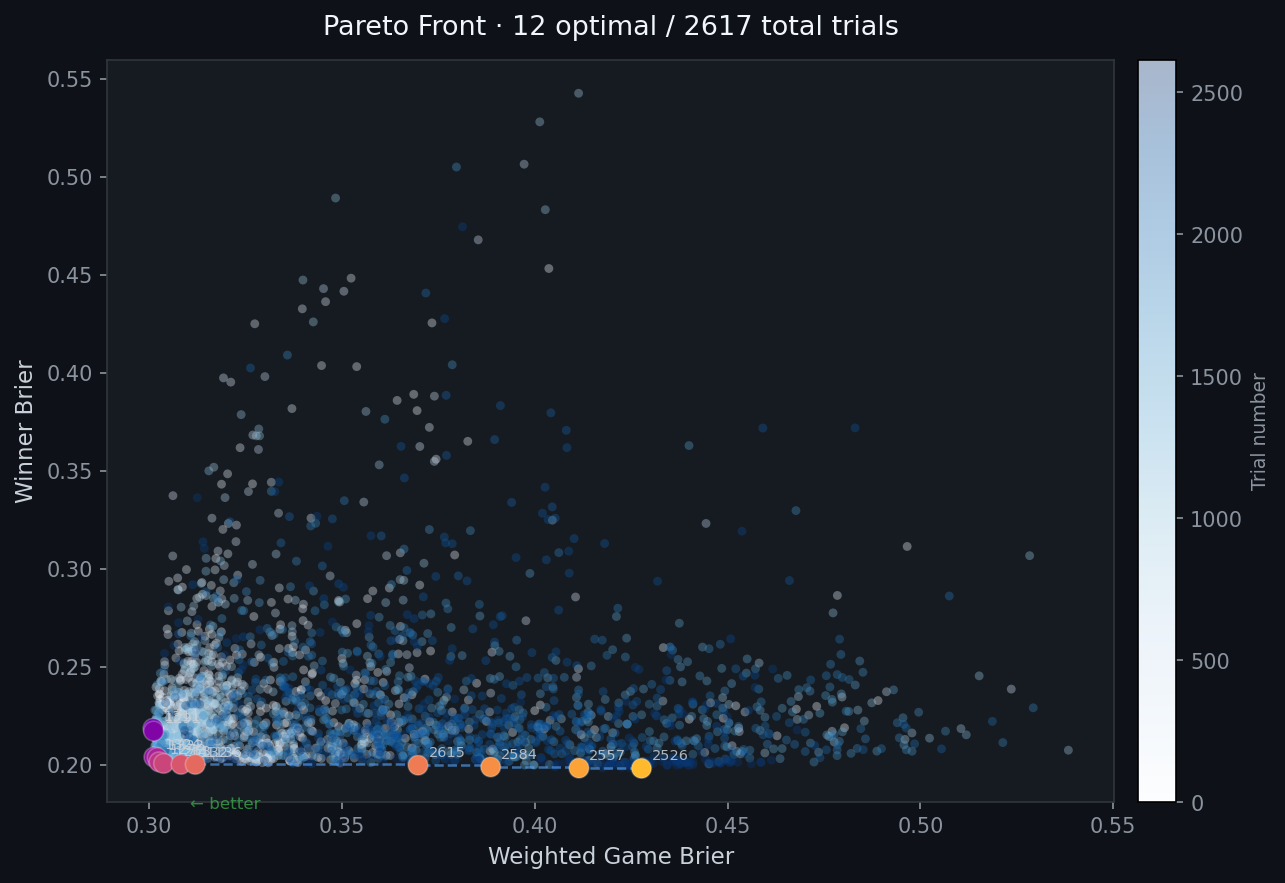
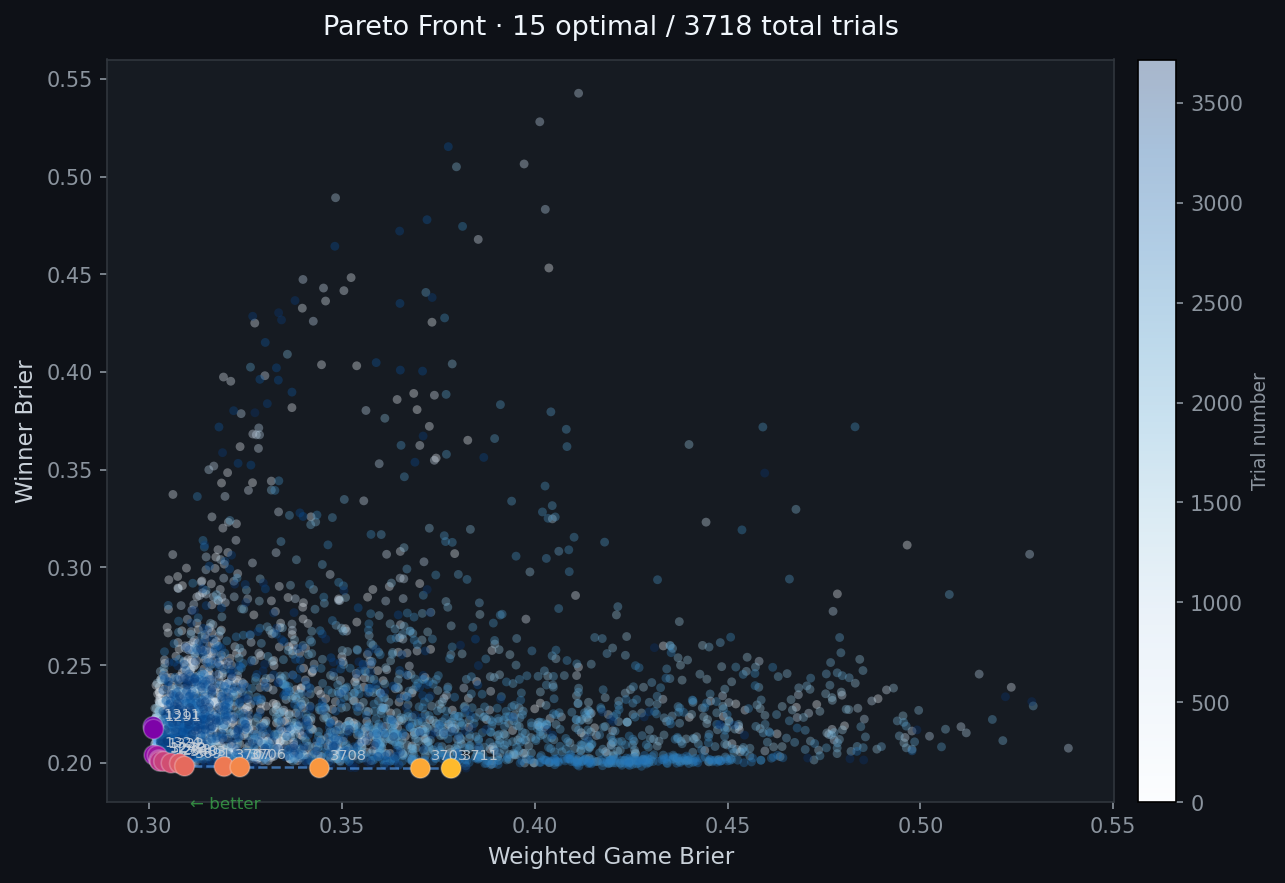
update

diff --git a/README.md b/README.md
@@ -52,19 +52,19 @@ python3 scripts/make_gif.py results/candidates2026/ -d 3000 --last-duration 1000
 
 ![Round 8](results/candidates2026/r8.png)
 
-*Round 7 results: Wei Yi beat Esipenko, Sindarov–Giri drew, Bluebaum–Nakamura drew, Pragg–Caruana drew*
+*Round 7 results: Wei Yi beat Esipenko, Sindarov–Anish drew, Bluebaum–Hikaru drew, Pragg–Fabi drew*
 
-- ✓ **Wei Yi beat Esipenko** — model had Wei Yi at 43.6%, correct
-- ✓ **Bluebaum–Nakamura drew** — model near-even (37.5%/36.2%), reasonable
-- ✗ **Sindarov–Giri drew** — model had Sindarov at 43.3%; with a commanding lead Sindarov has no reason to press
-- ✗ **Pragg–Caruana drew** — model had Caruana at 47.8%; Caruana unable to convert yet again in a must-win situation
-- Sindarov's win prob **increases** to 75.4% despite only drawing in R7 — his 1.5-point lead means draws are now strategically optimal
+- ✓ **Wei Yi beat Esipenko** — model had Wei Yi at 47.5%, correct
+- ✗ **Sindarov–Anish drew** — model had Sindarov at 58.8%; with a 2.5-point lead, little incentive to press
+- ✗ **Bluebaum–Hikaru drew** — model had Bluebaum at 43.0%
+- ✗ **Pragg–Fabi drew** — model had Pragg at 42.9%; Fabi has now drawn 4 straight rounds since his R3 win
+- Sindarov drops slightly to **88.5%** (from 90.3%) despite drawing — his cushion remains too large
 
 *Round 8 predictions:*
-- Esipenko–Sindarov: 24.6% / 26.4% / **49.0%** — Sindarov heavy favourite as Black
-- Wei Yi–Bluebaum: 37.2% / 26.6% / 36.2% — essentially a coin flip
-- Giri–Pragg: **43.8%** / 25.9% / 30.3% — Giri favoured
-- Nakamura–Caruana: 33.8% / 26.5% / **39.7%** — Caruana slight favourite
+- Esipenko–Sindarov: 4.2% / 15.2% / **80.6%** — Sindarov near-certain favourite; 6 wins out of 7 makes Esipenko an extreme underdog
+- Wei Yi–Bluebaum: 29.8% / 30.5% / **39.8%** — Bluebaum slight edge
+- Anish–Pragg: **38.2%** / 31.6% / 30.2% — Anish slight edge
+- Hikaru–Fabi: 33.7% / 30.6% / **35.7%** — Fabi slight edge
 
 </details>
 
@@ -73,19 +73,19 @@ python3 scripts/make_gif.py results/candidates2026/ -d 3000 --last-duration 1000
 
 ![Round 7](results/candidates2026/r7.png)
 
-*Round 6 results: Caruana–Esipenko drew, Nakamura–Pragg drew, Giri–Bluebaum drew, Sindarov beat Wei Yi*
+*Round 6 results: Fabi–Esipenko drew, Hikaru–Pragg drew, Anish–Bluebaum drew, Sindarov beat Wei Yi*
 
-- ✓ **Sindarov beat Wei Yi** — model predicted (39.7%), correct
-- ✓ **Giri–Bluebaum drew** — model near-even (37.1%/36.5%), fine
-- ✗ **Caruana–Esipenko drew** — model's biggest miss: Caruana was a **53% favourite** for a win against a 2698-rated opponent; Caruana's repeated failure to convert against lower-rated players is the tournament's central story
-- ✗ **Nakamura–Pragg drew** — model had Nakamura at 45.3%
-- Win probs: Sindarov **72.6%**, Caruana 20.9%
+- ✓ **Sindarov beat Wei Yi** — model had Sindarov at 62.4%, correct
+- ✗ **Fabi–Esipenko drew** — model's biggest miss of the tournament: Fabi was a **72.1% favourite** yet drew again; his inability to convert against lower-rated players is the central story
+- ✗ **Hikaru–Pragg drew** — model had Pragg at 36.1%; near-coin-flip, draw not unexpected
+- ✗ **Anish–Bluebaum drew** — model had Bluebaum at 40.0%
+- Win probs jump: Sindarov **90.3%**, Fabi 7.3% — Fabi drawing while Sindarov winning collapses the race
 
 *Round 7 predictions:*
-- Esipenko–Wei Yi: 31.2% / 25.2% / **43.6%** — Wei Yi favoured
-- Sindarov–Giri: **43.3%** / 26.7% / 30.0% — Sindarov favoured
-- Bluebaum–Nakamura: 37.5% / 26.3% / 36.2% — near coin-flip
-- Pragg–Caruana: 27.4% / 24.8% / **47.8%** — Caruana strong favourite
+- Esipenko–Wei Yi: 23.6% / 28.9% / **47.5%** — Wei Yi favoured
+- Sindarov–Anish: **58.8%** / 25.6% / 15.7% — Sindarov strong favourite
+- Bluebaum–Hikaru: **43.0%** / 30.5% / 26.5% — Bluebaum favoured
+- Pragg–Fabi: **42.9%** / 29.3% / 27.8% — Pragg narrow favourite as White; Fabi's 4 consecutive draws since R3 have eroded his estimated strength
 
 </details>
 
@@ -94,19 +94,19 @@ python3 scripts/make_gif.py results/candidates2026/ -d 3000 --last-duration 1000
 
 ![Round 6](results/candidates2026/r6.png)
 
-*Round 5 results: Pragg–Esipenko drew, Caruana beat Bluebaum, Sindarov beat Nakamura, Giri–Wei Yi drew*
+*Round 5 results: Pragg–Esipenko drew, Fabi beat Bluebaum, Sindarov beat Hikaru, Anish–Wei Yi drew*
 
-- ✓ **Caruana beat Bluebaum** — model predicted (43.6%), correct
-- ✓ **Sindarov beat Nakamura** — model had Sindarov as slight favourite (37.6%), correct
-- ✓ **Pragg–Esipenko drew** — model near-even (37.6%/35.9%), draw is the natural outcome
-- ✓ **Giri–Wei Yi drew** — model near-even (37.1%/36.4%), correct
-- Best round for the model — all 4 outcomes matched; win probs: Sindarov **56.8%**, Caruana 30.9%
+- ✓ **Fabi beat Bluebaum** — model predicted (50.7%), correct
+- ✓ **Sindarov beat Hikaru** — model had Sindarov as heavy favourite (55.0%), correct
+- ✓ **Anish–Wei Yi drew** — model near-even (39.0%/30.6%), draw fine
+- ✗ **Pragg–Esipenko drew** — model had Pragg at 48.5%; near-even matchup, draw is plausible
+- Win probs: Sindarov **75.1%**, Fabi 19.1% — Sindarov's 4.5/5 gives him commanding odds
 
 *Round 6 predictions:*
-- Caruana–Esipenko: **53.0%** / 24.6% / 22.4% — Caruana strong favourite
-- Nakamura–Pragg: **45.3%** / 25.5% / 29.2% — Nakamura favoured
-- Giri–Bluebaum: 37.1% / 26.4% / 36.5% — near coin-flip
-- Wei Yi–Sindarov: 32.9% / 27.4% / **39.7%** — Sindarov slight favourite
+- Fabi–Esipenko: **72.1%** / 20.0% / 7.9% — Fabi overwhelming favourite; model expects him to close the gap
+- Hikaru–Pragg: 33.1% / 30.8% / **36.1%** — Pragg slight edge
+- Anish–Bluebaum: 29.5% / 30.5% / **40.0%** — Bluebaum favoured
+- Wei Yi–Sindarov: 12.8% / 24.8% / **62.4%** — Sindarov heavy favourite
 
 </details>
 
@@ -115,19 +115,19 @@ python3 scripts/make_gif.py results/candidates2026/ -d 3000 --last-duration 1000
 
 ![Round 5](results/candidates2026/r5.png)
 
-*Round 4 results: Giri beat Esipenko, Wei Yi–Nakamura drew, Sindarov beat Caruana, Bluebaum–Pragg drew*
+*Round 4 results: Anish beat Esipenko, Wei Yi–Hikaru drew, Sindarov beat Fabi, Bluebaum–Pragg drew*
 
-- ✓ **Giri beat Esipenko** — model had Giri at 39.5%, correct
-- ✓ **Wei Yi–Nakamura drew** — model near-even (37.2%/35.2%), draw reasonable
-- ✗ **Sindarov beat Caruana** — model had Caruana as marginal favourite (36.1% vs 34.7%); **the tournament's turning point** — Sindarov opens a 1-point lead for the first time
-- ✗ **Bluebaum–Pragg drew** — model had Bluebaum at 44.7%, another expected win becoming a draw
-- Win probability flips: Sindarov 23.6% → **46.9%**, Caruana 33.8% → 26.7%
+- ✓ **Sindarov beat Fabi** — model had Sindarov at 41.8%; **the tournament's turning point** — Sindarov opens a 1-point lead
+- ✗ **Anish beat Esipenko** — model had Esipenko at 42.9%; Anish punching above expectations
+- ✓ **Wei Yi–Hikaru drew** — model near-even (40.9%/28.7%), draw fine
+- ✓ **Bluebaum–Pragg drew** — model near-coin-flip (33.9%/34.7%), draw expected
+- Win probs: Sindarov **67.5%**, Fabi 17.1% — with Sindarov at 3.5/4, the model already sees him as dominant
 
 *Round 5 predictions:*
-- Pragg–Esipenko: 37.2% / 26.9% / 35.9% — near coin-flip, slight Pragg edge
-- Caruana–Bluebaum: **43.1%** / 27.6% / 29.3% — Caruana favoured
-- Nakamura–Sindarov: 34.8% / 27.3% / **37.9%** — Sindarov slight favourite
-- Giri–Wei Yi: 36.8% / 26.3% / 36.9% — near coin-flip
+- Pragg–Esipenko: **48.5%** / 28.4% / 23.2% — Pragg favoured
+- Fabi–Bluebaum: **50.7%** / 28.4% / 20.9% — Fabi strong favourite
+- Hikaru–Sindarov: 17.5% / 27.5% / **55.0%** — Sindarov heavy favourite after 3.5/4
+- Anish–Wei Yi: **39.0%** / 30.5% / 30.6% — Anish slight edge
 
 </details>
 
@@ -136,19 +136,19 @@ python3 scripts/make_gif.py results/candidates2026/ -d 3000 --last-duration 1000
 
 ![Round 4](results/candidates2026/r4.png)
 
-*Round 3 results: Bluebaum–Esipenko drew, Sindarov beat Pragg, Caruana beat Wei Yi, Nakamura–Giri drew*
+*Round 3 results: Bluebaum–Esipenko drew, Sindarov beat Pragg, Fabi beat Wei Yi, Hikaru–Anish drew*
 
-- ✓ **Sindarov beat Pragg** — model predicted (43.8%), correct
-- ✓ **Caruana beat Wei Yi** — model predicted (42.4%), correct
-- ✗ **Bluebaum–Esipenko drew** — model had Bluebaum at 44.2%; another expected win becomes a draw
-- ✗ **Nakamura–Giri drew** — model had Nakamura at 40.8%, same pattern; early draws are consistently underestimated
-- Win probs: Caruana **33.8%**, Sindarov 23.6% — both leaders won so their relative order holds
+- ✓ **Fabi beat Wei Yi** — model predicted (51.1%), correct
+- ✗ **Sindarov beat Pragg** — model had Pragg slightly favoured as White (39.7% vs 29.8%); Sindarov wins anyway
+- ✗ **Bluebaum–Esipenko drew** — model had Bluebaum at 53.3%; biggest miss of the round
+- ✗ **Hikaru–Anish drew** — model had Hikaru at 51.6%; another expected win becomes a draw
+- Win probs: Sindarov **44.2%**, Fabi 38.7% — Sindarov overtakes Fabi for the first time
 
 *Round 4 predictions:*
-- Esipenko–Giri: 33.0% / 27.4% / **39.6%** — Giri slight favourite
-- Wei Yi–Nakamura: **37.0%** / 27.9% / 35.1% — near coin-flip, Wei Yi marginal edge
-- Sindarov–Caruana: 34.9% / 28.7% / **36.4%** — near coin-flip, slight Caruana edge
-- Bluebaum–Pragg: **44.5%** / 27.3% / 28.1% — Bluebaum favoured
+- Esipenko–Anish: **42.9%** / 30.3% / 26.8% — Esipenko favoured
+- Wei Yi–Hikaru: **40.9%** / 30.5% / 28.7% — Wei Yi slight edge
+- Sindarov–Fabi: **41.8%** / 30.7% / 27.5% — Sindarov slight favourite
+- Bluebaum–Pragg: 33.9% / 31.4% / **34.7%** — near coin-flip, marginal Pragg edge
 
 </details>
 
@@ -157,17 +157,17 @@ python3 scripts/make_gif.py results/candidates2026/ -d 3000 --last-duration 1000
 
 ![Round 3](results/candidates2026/r3.png)
 
-*Round 2 results: ALL FOUR games drew — Esipenko–Nakamura, Giri–Caruana, Wei Yi–Pragg, Sindarov–Bluebaum*
+*Round 2 results: ALL FOUR games drew — Esipenko–Hikaru, Anish–Fabi, Wei Yi–Pragg, Sindarov–Bluebaum*
 
-- ✗ **All 4 Round 2 games drew** — model had the higher-rated player winning in each: Nakamura 42.6%, Caruana 41.1%, Wei Yi 44.8%, Sindarov 40.1%
-- Early-round draws are systematically underestimated; no score pressure yet, players play solidly
-- Win probs barely shift (Caruana 33.8%, Sindarov 23.6%) — correct, since both leaders drew
+- ✗ **All 4 Round 2 games drew** — model had the expected leader winning in each (Esipenko 40.2%, Fabi 39.7%, Wei Yi 44.7%, Sindarov 47.6%)
+- Early-round draws are consistently underestimated; with no score pressure yet, all-draw rounds are plausible
+- Win probs barely shift (Fabi 31.3%, Sindarov 23.0%, Pragg 15.0%) — stable, all leaders drew
 
 *Round 3 predictions:*
-- Bluebaum–Esipenko: **44.3%** / 27.8% / 28.0% — Bluebaum favoured
-- Pragg–Sindarov: 27.9% / 28.2% / **43.8%** — Sindarov favoured
-- Caruana–Wei Yi: **42.4%** / 27.8% / 29.8% — Caruana favoured
-- Nakamura–Giri: **40.8%** / 26.9% / 32.2% — Nakamura favoured
+- Bluebaum–Esipenko: **53.3%** / 28.1% / 18.6% — Bluebaum strongly favoured; R1 win at very low prior creates an outsized strength estimate
+- Pragg–Sindarov: **39.7%** / 30.5% / 29.8% — Pragg slight edge as White despite Sindarov's R1 win
+- Fabi–Wei Yi: **51.1%** / 28.6% / 20.3% — Fabi strongly favoured
+- Hikaru–Anish: **51.6%** / 28.2% / 20.2% — Hikaru strongly favoured
 
 </details>
 
@@ -176,19 +176,19 @@ python3 scripts/make_gif.py results/candidates2026/ -d 3000 --last-duration 1000
 
 ![Round 2](results/candidates2026/r2.png)
 
-*Round 1 results: Caruana beat Nakamura, Pragg beat Giri, Bluebaum–Wei Yi drew, Sindarov beat Esipenko*
+*Round 1 results: Fabi beat Hikaru, Pragg beat Anish, Bluebaum–Wei Yi drew, Sindarov beat Esipenko*
 
-- ✓ **Caruana beat Nakamura** — model's top pick (40.4%), correct
-- ✓ **Sindarov beat Esipenko** — strongly predicted (46.1%), correct
-- ✓ **Bluebaum–Wei Yi drew** — model near-even (36.6%/35.1%), draw is reasonable
-- ✗ **Pragg beat Giri** — model had Giri at 41.4%; Pragg punching above his pre-tournament rating
-- Pragg wins but only moves 3.6% → 6.0% — low prior absorbs results slowly; Giri drops from 10.2% → 4.8%
+- ✓ **Fabi beat Hikaru** — model's top pick (40.7%), correct
+- ✓ **Sindarov beat Esipenko** — strongly predicted (44.2%), correct
+- ✓ **Bluebaum–Wei Yi drew** — model near-even (35.6%/33.4%), draw fine
+- ✗ **Pragg beat Anish** — model had Anish at 39.0%; Pragg punching above his pre-tournament rating
+- All three R1 winners jump sharply: Fabi 18.9% → **30.5%**, Sindarov 15.3% → **25.0%**, Pragg 6.6% → **12.7%** — very low priors amplify single-game results immediately
 
 *Round 2 predictions:*
-- Esipenko–Nakamura: 30.4% / 27.8% / **41.9%** — Nakamura favoured
-- Giri–Caruana: 30.5% / 28.3% / **41.1%** — Caruana favoured
-- Wei Yi–Pragg: **44.8%** / 27.7% / 27.5% — Wei Yi favoured
-- Sindarov–Bluebaum: **40.1%** / 27.9% / 32.0% — Sindarov favoured
+- Esipenko–Hikaru: **40.2%** / 30.3% / 29.5% — Esipenko now favoured (flipped from pre-R1); low priors absorb Hikaru's R1 loss aggressively
+- Anish–Fabi: 29.5% / 30.9% / **39.7%** — Fabi favoured
+- Wei Yi–Pragg: **44.7%** / 30.1% / 25.2% — Wei Yi favoured
+- Sindarov–Bluebaum: **47.6%** / 29.3% / 23.0% — Sindarov boosted further by R1 win
 
 </details>
 
@@ -199,17 +199,17 @@ python3 scripts/make_gif.py results/candidates2026/ -d 3000 --last-duration 1000
 
 *Pre-tournament predictions*
 
-- **Caruana** is the favourite at **24.4%** despite not having the highest classical Elo (Nakamura leads at 2810 vs Caruana's 2793) — stable flat rating history and balanced overall profile
-- **Nakamura at only 15.0%** despite the highest classical Elo — his rapid/blitz velocity parameters slightly dampen his classical projection; his rating is stable-to-declining [2813→2810]
-- **Sindarov at 17.7%** with only 2745 Elo — strongly rising classical trend [2721→2745, +24 pts] and improving rapid history [2688→2727]; the model rewards momentum
-- **Bluebaum at 11.7%** seems elevated for a 2695-rated player — positive classical trend [2680→2695] and no rapid/blitz data, so no penalty for potential weakness there
-- **Pragg at 3.6%** despite his FIDE ranking — classical rating has been **falling** [2768→2741, −27 pts]; the model tracks the downtrend, not the name
+- **Fabi** is the favourite at **18.9%** despite not having the highest classical Elo (Hikaru leads at 2810 vs Fabi's 2793) — stable rating history across all three time controls gives a consistent overall profile
+- **Hikaru at only 13.8%** despite the highest classical Elo — his rapid/blitz velocity trends are weaker, and his classical rating is flat [2813→2810]
+- **Sindarov at 15.3%** with only 2745 Elo — strongly rising classical trend [2721→2745, +24 pts] and improving rapid history [2688→2727]; the model rewards recent momentum
+- **Bluebaum at 12.7%** for a 2695-rated player — positive classical trend [2680→2695] and no rapid/blitz history, so no drag from weaker secondary time controls
+- **Pragg at only 6.6%** despite his FIDE ranking — classical rating has been **falling** [2768→2741, −27 pts]; the model tracks the trend, not the name
 
 *Round 1 predictions:*
-- Caruana–Nakamura: **40.4%** / 28.8% / 30.8% — Caruana slight favourite
-- Pragg–Giri: 30.5% / 28.1% / **41.4%** — Giri favoured
-- Bluebaum–Wei Yi: 36.6% / 28.3% / 35.1% — near coin-flip
-- Sindarov–Esipenko: **46.1%** / 27.4% / 26.5% — Sindarov clear favourite
+- Fabi–Hikaru: **40.7%** / 30.9% / 28.4% — Fabi slight favourite
+- Pragg–Anish: 30.1% / 30.9% / **39.0%** — Anish favoured
+- Bluebaum–Wei Yi: **35.6%** / 31.0% / 33.4% — near coin-flip
+- Sindarov–Esipenko: **44.2%** / 30.2% / 25.5% — Sindarov clear favourite
 
 </details>
 
@@ -389,7 +389,26 @@ The plot shows all completed trials as blue-gradient dots (darker = later trial)
 
 ![Pareto Front](results/pareto/tuning_24.png)
 
-The Optuna #1 ranked trial from this front (Trial 5617, Game Brier: 0.2989, Winner Brier: 0.2424) is saved as `configs/best_hparams_24.json` and used as the base config for the 2026 Candidates predictions.
+The Optuna #1 ranked trial from this front (Trial 5617, Game Brier: 0.2989, Winner Brier: 0.2424) is saved as `configs/best_hparams_24.json`.
+
+**Example (2022 + 2024 Candidates — 1 000 trials):**
+
+![Pareto Front](results/pareto/tuning_22_24.png)
+
+Trial 1272 (#2 on the combined Pareto front, Game Brier: 0.3025, Winner Brier: 0.2015) is saved as `configs/best_hparams_22_24.json` and used for the 2026 Candidates predictions.
+
+### Config comparison: `best_hparams_24.json` vs `best_hparams_22_24.json`
+
+| Parameter | 2024-only | 2022+2024 | Effect |
+|---|---|---|---|
+| `prior_weight_known/sim` | 16.3 / 20.0 | 0.60 / 0.60 | 2022+2024 is far more reactive — one win can nearly double a player's win probability |
+| `classical_nu` | 0.818 | 0.906 | 2022+2024 predicts more draws in classical games |
+| `rapid_nu` | 0.586 | 0.824 | 2022+2024 predicts many more draws in rapid tiebreaks |
+| `initial_white_adv` | 8.6 Elo | 17.3 Elo | 2022+2024 gives substantially more weight to the White color advantage |
+| `standings_aggression` | 0.204 | 0.033 | 2024-only has stronger desperation/over-pressing effects |
+| `velocity_time_decay` | 0.555 | 0.795 | 2022+2024 weights older rating history more evenly |
+
+The 2022+2024 model converges much more aggressively once a player builds a lead, and its pre-tournament probabilities are more compressed (Elo differences matter less when priors are weak). Adding 2022 Candidates data appears to support a higher draw rate and stronger White advantage.
 
 ## Visualization
 
